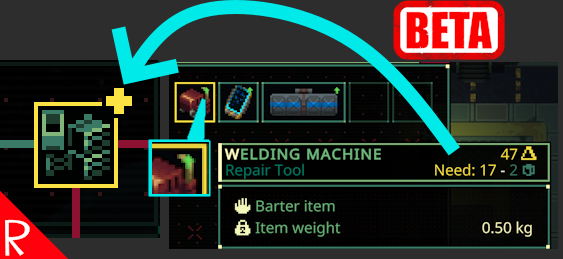
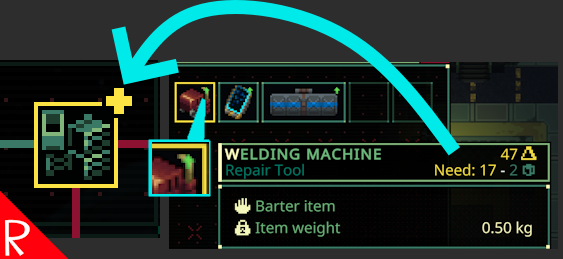
readme and image update

Changed region(s): [[0.6945, 0.0, 0.9059, 0.2471]]

diff --git a/README.md b/README.md
@@ -2,12 +2,6 @@
 
 ![thumbnail icon](media/thumbnail.png)
 
-
-## Important! Opt In Beta Only
-
-Unfortunately this mod is only available for the Quasimorph's opt in beta, not the current release.
-
-# Docs
 Ever been in the dungeon and trying to remember if a resource is still needed for Magnum upgrades?
 
 This mod simplifies the process by adding a green arrow to any resource items that are still needed for Magnum upgrades.
